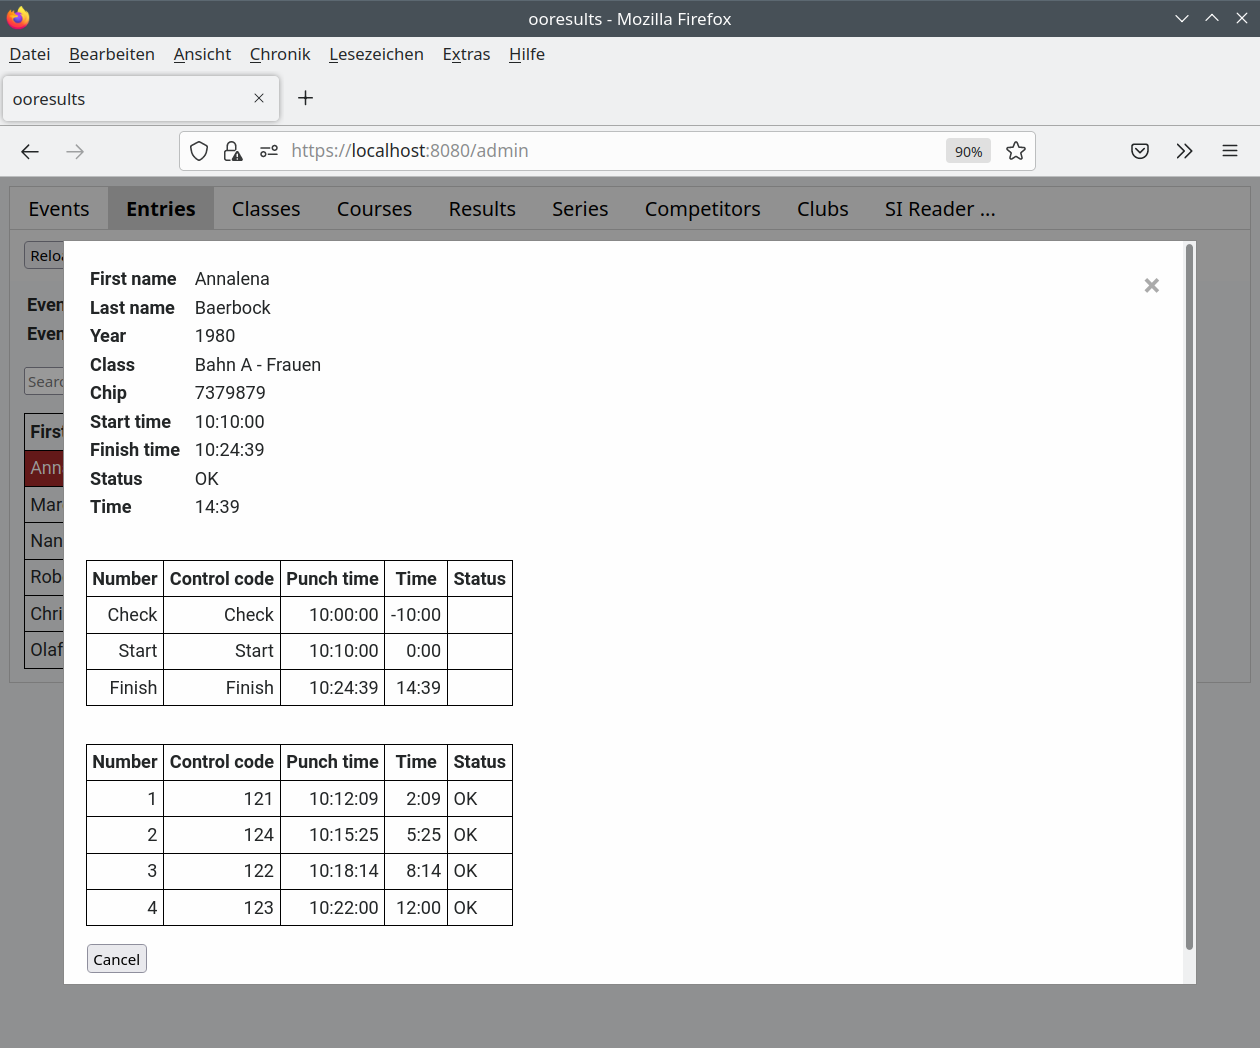
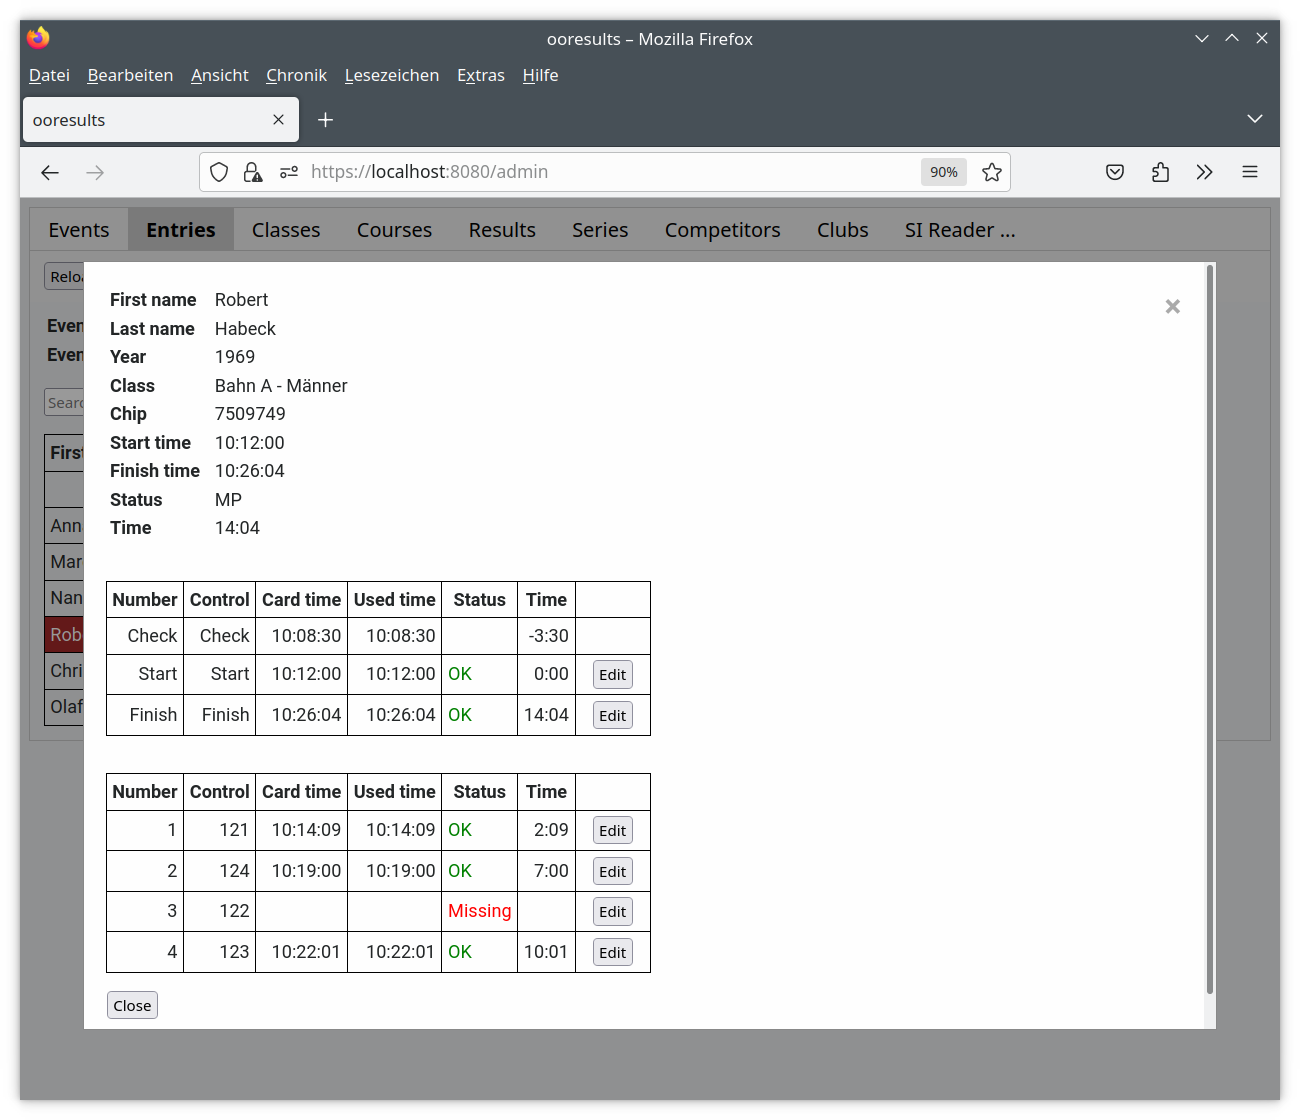
Documentation updated (Anzeigen und Editieren der Ergebnisse eines Läufers)

Changed region(s): [[0.0, 0.0, 1.0, 1.0]]

diff --git a/docs/source/tutorial_2.rst b/docs/source/tutorial_2.rst
@@ -189,14 +189,29 @@ Dies erfolgt mit der Funktion "Edit entry ...".
    Eine Beschreibung der möglichen Zustände findet sich in Kapitel :ref:`entries`.
 
 
-Anzeige der Ergebnisse eines Läufers
-------------------------------------
+Anzeigen und Editieren der Ergebnisse eines Läufers
+---------------------------------------------------
 
 1. Selektieren des Läufers in der "Entries" Liste.
    Mit Hilfe der Filter-Funktion kann die Liste verkleinert werden.
 #. Anklicken der Funktion "Show result"
 
 .. image:: images/entries_result_1.png
+
+Sollte eine Kontrollstation nicht funktionieren und trotz ordnungsgemäßem Stempeln nicht
+auf der SI-Card des Läufers enthalten sein, ist wie folgt vorzugehen:
+
+1. Anklicken der Funktion "Edit" am Ende der Zeile des betreffenden Postens
+#. Eingabe der Stempelzeit (falls diese nicht bekannt ist bleibt das Feld leer)
+#. Bestätigen mit "Save"
+
+.. image:: images/entries_result_2.png
+
+Für die Ergebnisberechung wird die in Spalte "Used time" angezeigte Zeit verwendet.
+Zeilen, die editiert wurden, in denen also die von der SI-Card gelesene Zeit (Spalte "Card time")
+von der verwendeten Zeit (Spalte "Used time") abweicht, werden grau hinterlegt angezeigt.
+
+.. image:: images/entries_result_3_edited.png
 
 
 Verwendung des Selbsteinlesefensters
